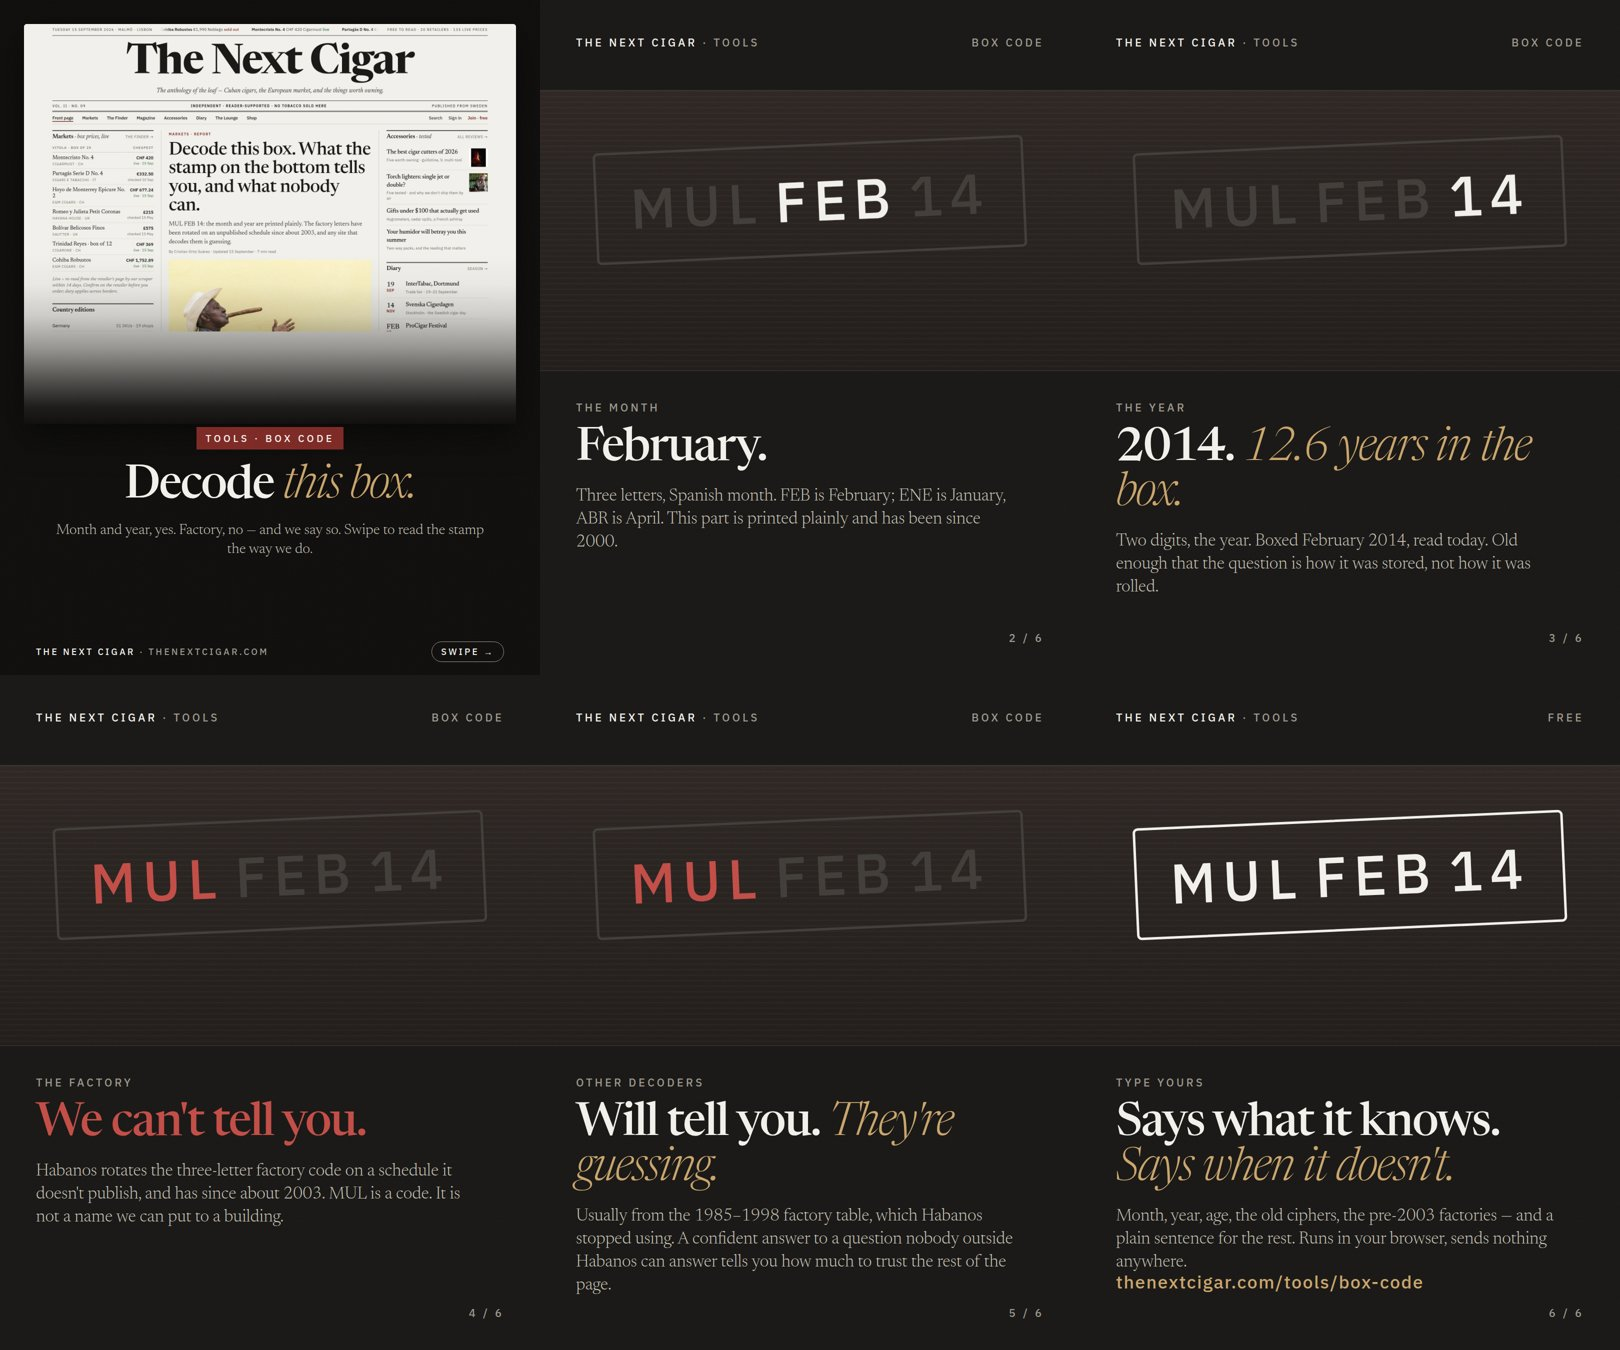
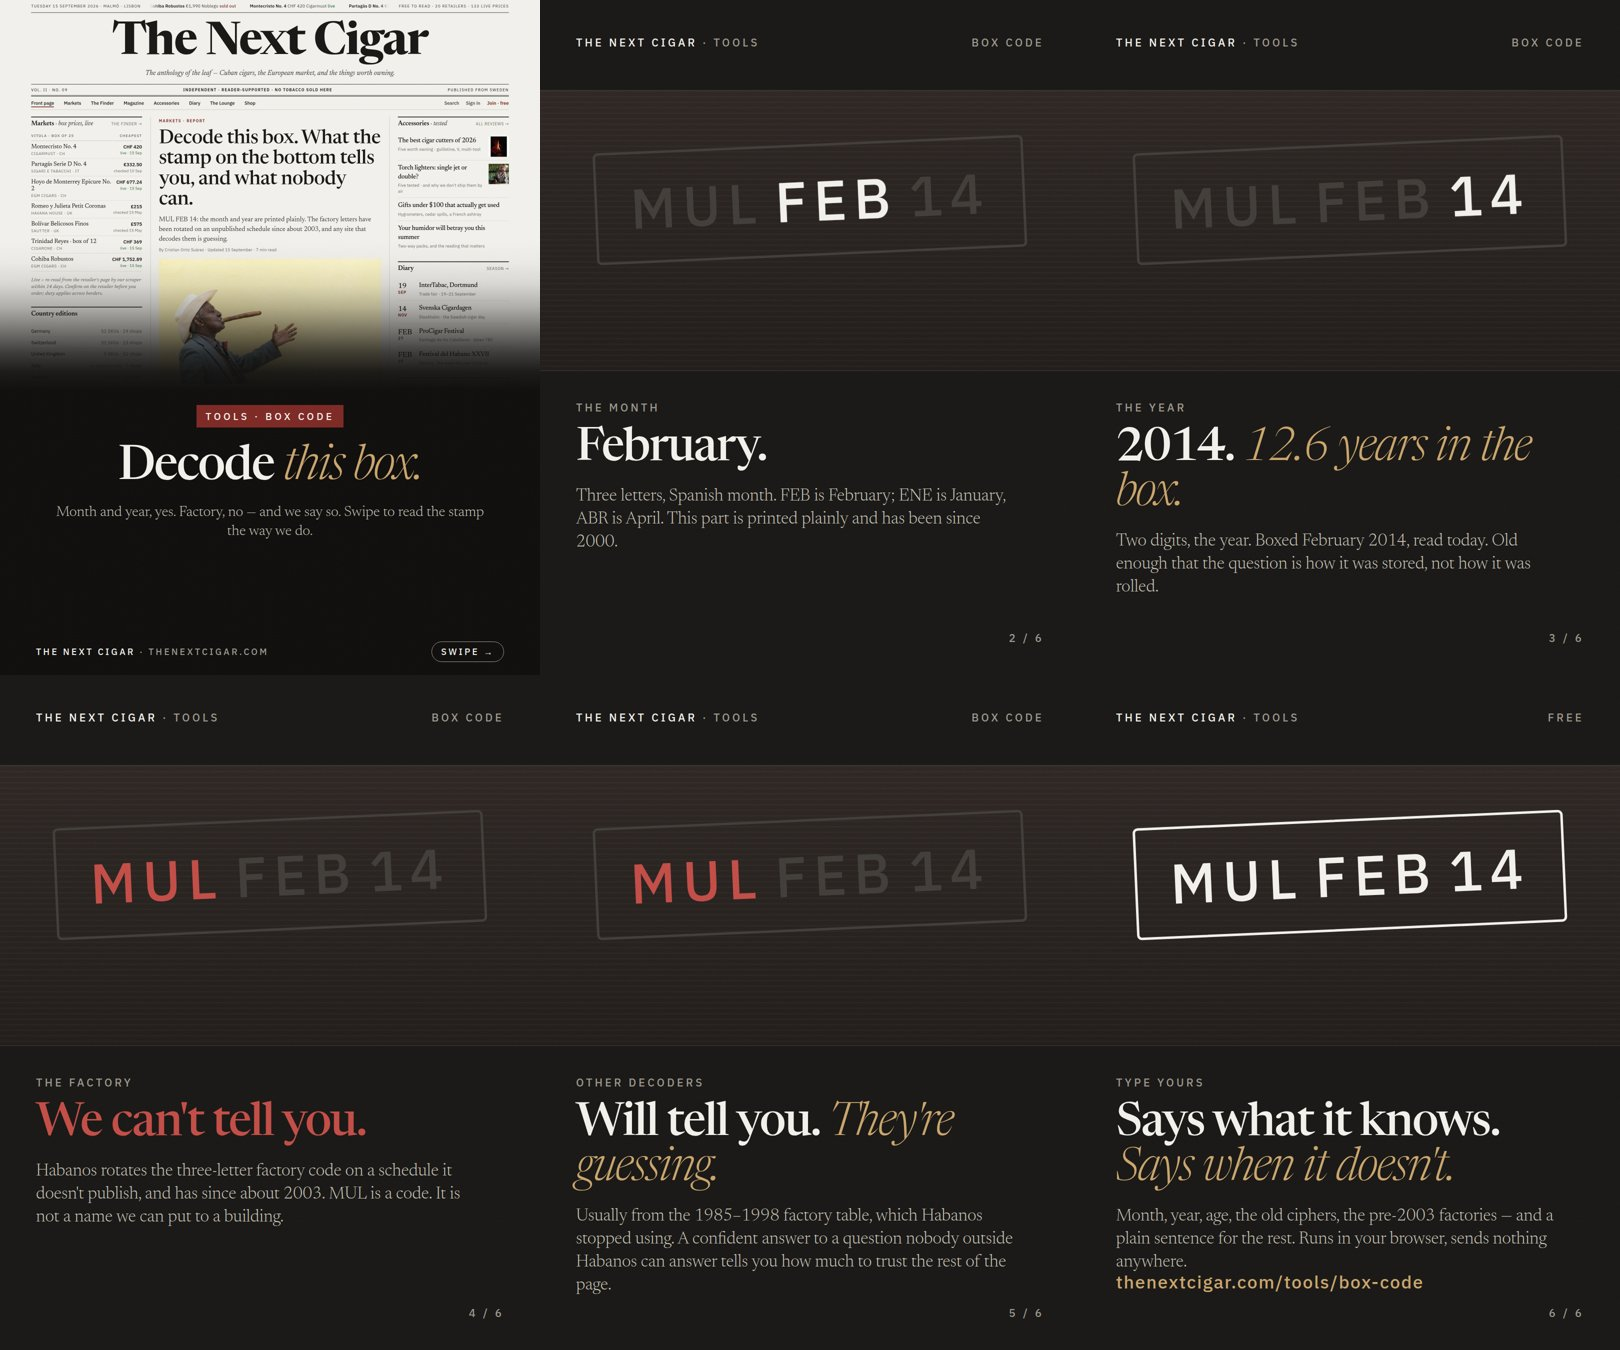
Covers: full-bleed front page, gradient takes over below the photograph, nothing cropped; Lounge QA addendum (L1–L7) and TODO
Claude-Session: https://claude.ai/code/session_013HphmYBNP4FUaMByaE1uEh

Changed region(s): [[0.0, 0.0, 0.3395, 0.4044]]

diff --git a/docs/qa-review-2026-09-15.md b/docs/qa-review-2026-09-15.md
@@ -41,3 +41,23 @@ The box-code decoder is the most honest tool of its kind I have tested: it decod
 5. **Rewrite the privacy policy to match the site and add "Delete my account" to the profile page**, because you now hold accounts, orders, alerts and a humidor ledger under a policy that says you hold an email address, and GDPR gives every member the right to leave with their data.
 
 Then, when there is time: a search box in the masthead that covers vitolas, retailers and articles; a single line above the fold on mobile saying what the paper is and linking to the board; and prices shown in the reader's currency with USD as the settlement note, not the headline.
+
+---
+
+## Addendum, 15 September evening — the Lounge, signed in
+
+**Method.** Desktop Chrome, signed in as the member "Björn" (an ordinary member, not an admin). Every page in the app nav plus Places, Submit-a-shop, Profile and Admin. The window could not be resized below 1470 px from the automation, so the phone pass below is from code, not from a device.
+
+**What worked, first time.** Check-in card, map with 100+ pins and filters, directory with "members you should meet", Travel (declare a trip), Inbox (0 received / 3 sent), Profile with OG badge, brands, notes, strength, host toggle. Humidor: logging a Partagás Serie D No. 4 single at €25 priced it instantly at €27 from the board ("+30.8% in 90 days"), and the totals updated without a reload; Edit and Remove both worked. Zero console errors on ten pages. Admin correctly refuses a non-admin.
+
+| # | Finding | Sev | Where |
+|---|---|---|---|
+| L1 | **Remove in the humidor deletes instantly** — no confirm, no undo. One mis-tap on a phone and a logged box is gone. Add a two-second "Removed · Undo" toast, or a confirm. | 3 | `/lounge/app/humidor/` |
+| L2 | **"Log a cigar" modal is clipped at the top on short viewports** (≤ 740 px tall): the title "Log a cigar" and the × sit under the header; the modal should be `max-height: 90vh` with internal scroll and vertical centring. | 3 | humidor modal |
+| L3 | **Six "New Member · City not set" cards in Discover**, plus "MALMO" and "MALMÖ" as two cities. New sign-ups with no city and the default display name pollute the directory; hide profiles until a display name and city are set, and normalise city on save. | 3 | `/lounge/app/directory/` |
+| L4 | **The restricted-page copy prints your Gmail address** ("email guatabeycigars@gmail.com") to any member who taps Admin. Use hello@thenextcigar.com. | 2 | `/lounge/app/admin/` |
+| L5 | Humidor: the "Had time" heading under the table is not English a reader will parse — "Ageing" or "Time in the box". "Worth now €74 +0% in 90 days" for a Cohiba Robustos single is right but reads as a bug next to "+51%"; a "—" when the change is under 1% would be calmer. | 1 | humidor |
+| L6 | Places: the "Vetted cigar spots worldwide" header and intro rendered at 24% opacity for the whole session. Cause: `.reveal` fade-in with a 700 ms transition that Chrome freezes in a background tab, so this is an artefact of how it was tested — but readers who open a link in a background tab and switch to it later will see the same frozen fade. Consider `animation` instead of `transition`, or a 1.5 s fallback that forces `opacity:1`. | 1 | every Lounge page with `.reveal` |
+| L7 | Home: "Members you'd vibe with" recommends Cris to Björn on "Loves Davidoff"; the paper never sells or covers Davidoff. Fine for members, but the recommendation copy is brand-based when the profile also has flavour notes and strength — those would make a better sentence. | 1 | `/lounge/app/` |
+
+**Not done, and why.** "Delete my account" was not exercised (it uses a native confirm dialog and it is destructive). No trip was declared and no shop submitted, because both notify other members or land in your review queue. The QA submission from the morning ("QA TEST 15 Sep — reject me") is still in Submissions.

diff --git a/docs/TODO.md b/docs/TODO.md
@@ -28,6 +28,13 @@ Kept in the repo so it survives sessions. Newest at the top of each list. Strike
 12. Subscribers: the Lounge signup now asks for newsletter consent (migration 034). The 31 existing members have not consented — send them one in-app/service note inviting them to tick the box, then export the consenting ones with the query in 034 and import to MailerLite. First mailing when photos exist.
 13. Instagram bio link with UTM; post carousel 02 first (`docs/social/`).
 
+## Lounge (QA addendum, 15 Sep evening)
+
+- Humidor: Remove needs an Undo toast or a confirm (L1); modal clipped on short viewports (L2).
+- Directory: hide profiles with no display name/city; normalise city spelling (L3).
+- Admin restricted page: replace the Gmail address with hello@ (L4).
+- Copy: "Had time" → "Time in the box" (L5).
+
 ## Finder coverage (15 Sep audit)
 
 - 72 live in-stock prices across the board; 40 of 52 vitolas have one. Rows older than 60 days no longer headline a page, rank a board or carry a Buy button (`isStale`, `STALE_DAYS`).
